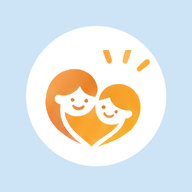
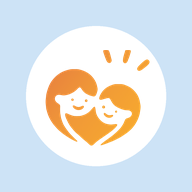
로고 확정(대표 승인 2026-11-09): 벡터판 로고로 앱 아이콘 5개 구+입구(아이보리 바탕)·상단 로고 고해상도·구별 타일 교체, 아이콘 v61, 옛 파일 docs/logo_vector/old_icons 보존
Claude-Session: https://claude.ai/code/session_01Av7xmGvufoCKB7F6raS8o2

diff --git a/app/index.html b/app/index.html
@@ -13,8 +13,8 @@
 <meta name="apple-mobile-web-app-title" content="아이랑{{name}}">
 <title>아이랑 {{name}}</title>
 <link rel="manifest" href="manifest.webmanifest">
-<link rel="icon" href="icon-192.png?v=60">
-<link rel="apple-touch-icon" href="icon-192.png?v=60">
+<link rel="icon" href="icon-192.png?v=61">
+<link rel="apple-touch-icon" href="icon-192.png?v=61">
 <link rel="preconnect" href="https://fonts.googleapis.com">
 <link rel="stylesheet" href="https://fonts.googleapis.com/css2?family=Noto+Sans+KR:wght@400;500;700;800&family=Gothic+A1:wght@800&display=swap">
 <style>
@@ -3150,7 +3150,7 @@ function mock(k) {
     more: `<div style="display:flex;gap:4px"><div class="rb"><i>⧉</i>복사</div><div class="rb"><i>▭</i>기기로 보내기</div><div class="rb"><i>☰</i>읽기 목록</div><div class="rb"><i class="hl">⌄</i><b>더 보기</b></div></div>`,
     addHome: `<div style="border-radius:12px;overflow:hidden"><div class="li" style="opacity:.55">▦ QR 코드 만들기</div><div class="li hl" style="font-weight:800">${ICON_PLUS} 홈 화면에 추가</div><div class="li" style="opacity:.55">✎ 새로운 빠른 메모에 추가</div></div>`,
     addBtn: `<div style="display:flex;justify-content:space-between;align-items:center;background:#fff;border-radius:12px;padding:8px 10px"><span style="color:#1a73e8">취소</span><b>홈 화면에 추가</b><span class="hl" style="color:#1a73e8;font-weight:800;padding:2px 8px">추가</span></div>
-      <div style="display:flex;align-items:center;gap:8px;margin-top:8px"><img src="icon-192.png?v=60" width="30" height="30" style="border-radius:8px" alt=""><span>아이랑 {{name}}</span></div>`,
+      <div style="display:flex;align-items:center;gap:8px;margin-top:8px"><img src="icon-192.png?v=61" width="30" height="30" style="border-radius:8px" alt=""><span>아이랑 {{name}}</span></div>`,
     safariBar: `<div class="bar" style="justify-content:space-between"><span>‹</span><span style="flex:1;text-align:center;opacity:.7">${esc(location.host)}</span><span class="hl" style="padding:2px 8px;font-weight:800">⋯</span></div><div style="font-size:11px;color:var(--muted);margin-top:6px;text-align:center">화면 맨 아래 주소창 오른쪽</div>`,
     safariShare: `<div style="border-radius:12px;overflow:hidden"><div class="li hl" style="font-weight:800">${sh} 공유</div><div class="li" style="opacity:.55">☆ 책갈피에 추가</div></div>`,
     kakao: `<div class="bar" style="justify-content:space-between"><span>✕</span><span style="flex:1;text-align:center;opacity:.7">${esc(location.host)}</span><span class="hl" style="padding:2px 8px;font-weight:800">⋮</span></div><div style="font-size:11px;color:var(--muted);margin-top:6px;text-align:center">카톡 화면 오른쪽 위 또는 아래</div>`,
@@ -3195,7 +3195,7 @@ function openInstall(auto) {
   el.style.cssText = "position:fixed;inset:0;z-index:50;background:rgba(20,26,46,.45);display:flex;align-items:flex-end;justify-content:center";
   el.innerHTML = `<div style="background:#fff;width:min(560px,100%);border-radius:26px 26px 0 0;padding:22px 20px calc(26px + env(safe-area-inset-bottom));box-shadow:0 -10px 30px rgba(20,26,46,.25);max-height:88vh;overflow:auto">
       <div style="display:flex;align-items:center;gap:12px">
-        <img src="icon-192.png?v=60" alt="" width="44" height="44" style="border-radius:12px;box-shadow:0 3px 10px rgba(30,40,90,.15)">
+        <img src="icon-192.png?v=61" alt="" width="44" height="44" style="border-radius:12px;box-shadow:0 3px 10px rgba(30,40,90,.15)">
         <div style="flex:1;min-width:0"><div style="font-size:12px;color:var(--muted)">아이랑 {{name}} · 앱처럼 쓰기</div><div style="font-size:18px;font-weight:800;margin-top:2px">${esc(title)}</div></div>
         <button onclick="closeInstall()" aria-label="닫기" style="border:0;background:#EEF0F6;width:34px;height:34px;border-radius:17px;font-size:18px;color:var(--muted);cursor:pointer">×</button></div>
       ${MOCK_CSS}<div style="margin-top:6px">${body}</div>

diff --git a/tests/e2e/design.spec.js b/tests/e2e/design.spec.js
@@ -72,7 +72,7 @@ for (const [key, name] of Object.entries(B.names)) {
       { k: "소개 문구", ok: g.sub === B.texts.sub, want: B.texts.sub, got: g.sub },
       { k: "우리 아이 추가", ok: g.kid === B.texts.kid, want: B.texts.kid, got: g.kid },
       { k: "검색 안내", ok: g.ph === B.texts.placeholder, want: B.texts.placeholder, got: g.ph },
-      { k: "빠른 메뉴 앞 2개", ok: B.texts.chips_first.every((c, i) => g.chips[i] === c), want: B.texts.chips_first, got: g.chips.slice(0, 2) },
+      { k: "빠른 메뉴 앞 2개(첫 칸은 시간대에 따라 '밤에 여는'/'지금 문 연' 소아과)", ok: ["밤에 여는 소아과", "지금 문 연 소아과"].includes(g.chips[0]) && g.chips[1] === B.texts.chips_first[1], want: B.texts.chips_first, got: g.chips.slice(0, 2) },
       { k: "하단 메뉴 5개", ok: JSON.stringify(g.nav) === JSON.stringify(B.texts.nav), want: B.texts.nav, got: g.nav },
       { k: "배치 순서(상단→제목→아이 추가→검색→빠른 메뉴→메뉴판)", ok: sorted(g.order), want: "위에서 아래로 차례", got: g.order },
     ]);
